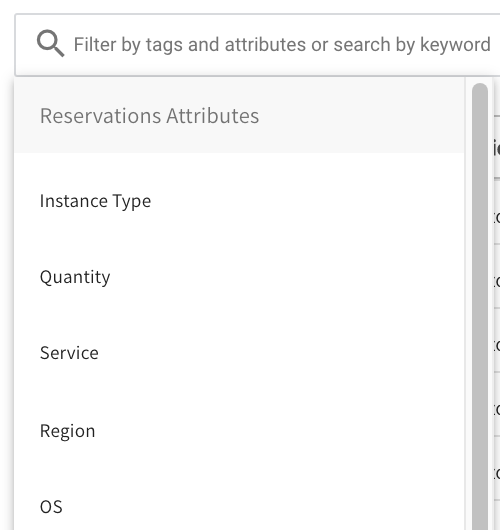
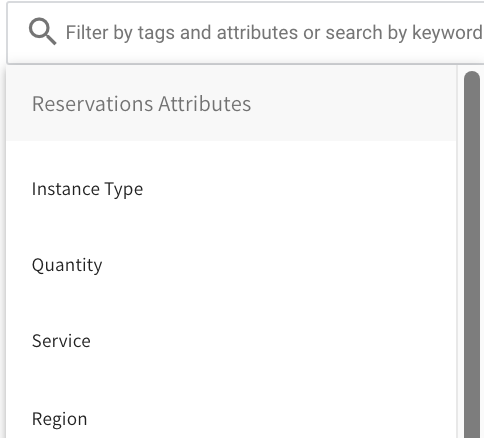
fixes

diff --git a/src/docs/eco/tutorials/view-your-savings.md b/src/docs/eco/tutorials/view-your-savings.md
@@ -50,11 +50,11 @@ Below the overview graphs and pie charts, you can see a table with detailed info
 You can filter the data displayed according to several criteria available.
 1. Place your cursor in the filter and click a parameter.
 
-<img src="/eco/_media/tutorials-view-savings-03.png" />
+<img src="/eco/_media/tutorials-view-savings-03.png" width="242" height="219" />
 
 2. Choose the specific value(s) to be displayed by typing them or selecting from the list.
 
-<img src="/eco/_media/tutorials-view-savings-04.png" />
+<img src="/eco/_media/tutorials-view-savings-04.png" width="244" height="223" />
 
 ### Display Columns
 
